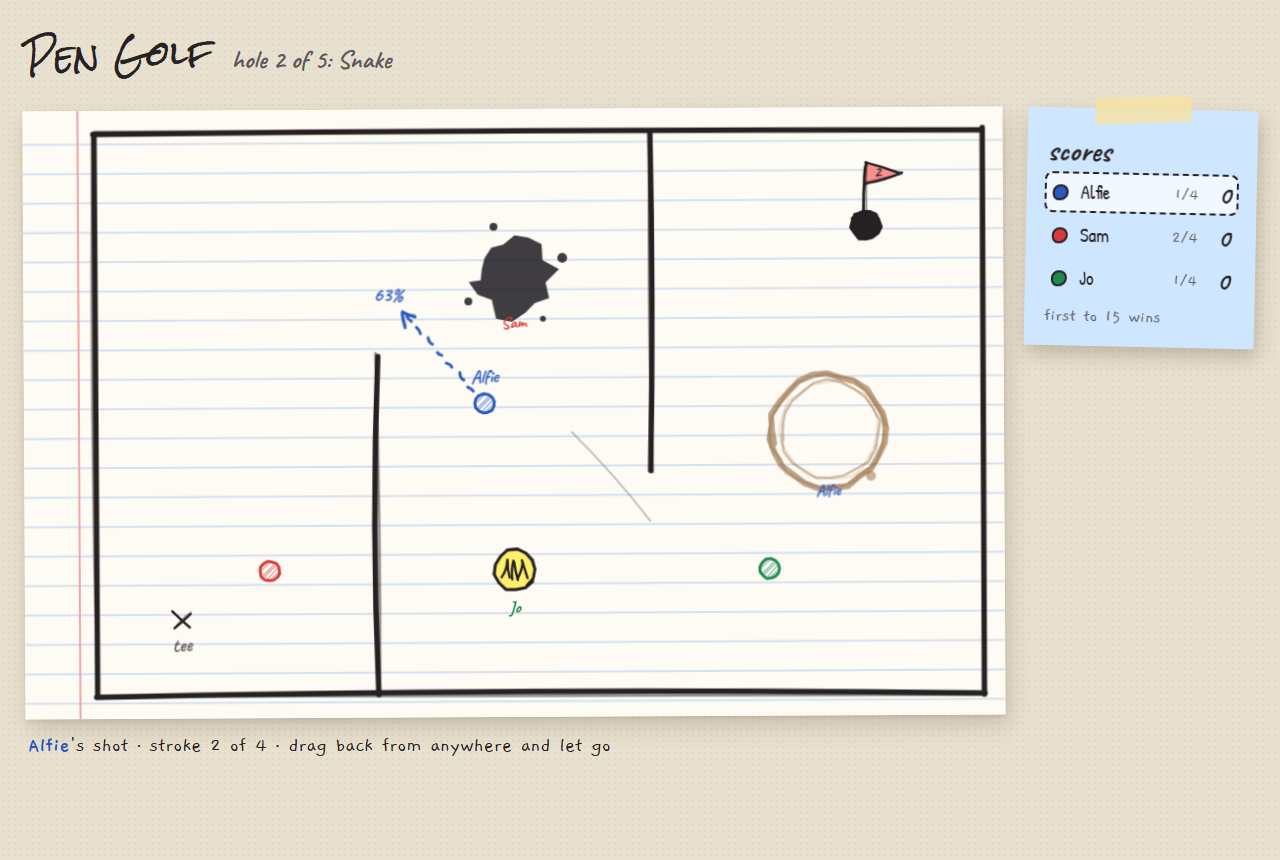
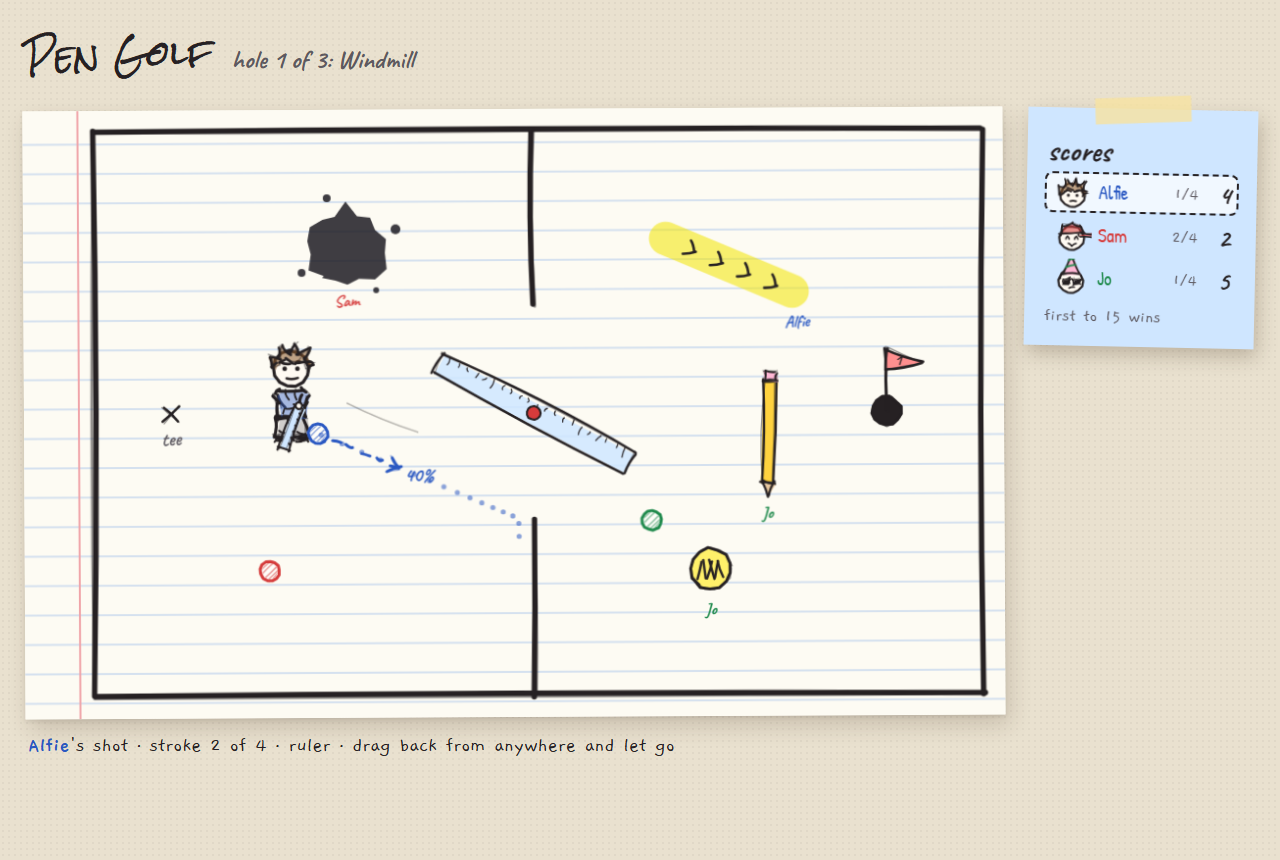
Pen Golf: golfers, clubs, more traps and holes; link to source

diff --git a/projects.js b/projects.js
@@ -59,24 +59,28 @@ window.PROJECTS = [
       "Online party games like Ultimate Chicken Horse are some of the most fun I've had with friends. I want to build one " +
       "end to end: multiplayer networking, game design that's easy to pick up, and an art style that's mine.",
     built:
-      "Friends join a room with a short code from any browser. Before each hole, everyone secretly places a trap (ink blots, " +
-      "eraser walls, springs) and then takes turns putting. You only score if you sink it and someone else doesn't, so traps " +
-      "have to be mean but not impossible. All the art is drawn by me on paper, then scanned into black-and-white sprites.",
-    hardest: "",
-    metrics: [],
+      "Each player makes a little golfer (hair, face, shirt, trousers) and picks a club with its own ability, like a ruler " +
+      "that previews your shot or a highlighter that glides through ink. Before each hole everyone places a trap: pencil " +
+      "walls are common, while scissors and hole-punch portals are rare. Then it's turns putting, with a choppy hand-drawn " +
+      "swing. You only score if you sink it and someone else doesn't, so traps have to be mean but not impossible.",
+    hardest:
+      "Physics that's fair and repeatable. It runs on a fixed time step, so the same shot always plays out identically, " +
+      "which is also what will let every player's browser replay shots in sync once it's online.",
+    metrics: ["10 holes", "10 traps", "6 clubs"],
     tags: ["JavaScript", "HTML Canvas", "Node.js", "WebSockets", "Game design"],
     milestones: [
       { text: "Pick the game idea and sketch the rules on paper", done: true },
       { text: "Single player: drag to putt a ball around a page", done: true },
       { text: "Courses: walls, a hole, and sinking the ball", done: true },
       { text: "Traps: place them and make them affect the ball", done: true },
+      { text: "Golfers: character creator, clubs and swing animation", done: true },
+      { text: "Rounds, scoring and a winner", done: true },
       { text: "Lobby: create a room, share a code, see who's joined", done: false },
       { text: "Multiplayer turns synced between players", done: false },
-      { text: "Rounds, scoring and a winner", done: true },
       { text: "Hand-drawn art scanned in and animated", done: false },
       { text: "Playtest with friends and deploy online", done: false },
     ],
     media: "assets/projects/pen-golf.png",
-    links: [],
+    links: [{ label: "Source code", url: "https://github.com/AlfieRadcliffe/DoodleGolf" }],
   },
 ];
